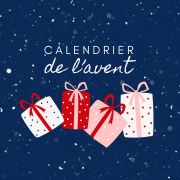
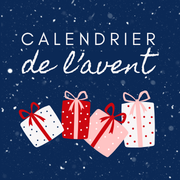
Fix iOS PWA safe-area handling and drop dead theming code
- app/+html.tsx: add viewport-fit=cover, switch status bar to
  black-translucent now that content can pad for the top inset
- app/_layout.tsx: add the missing SafeAreaProvider (insets were
  silently 0 everywhere on web without it - clipped bottom tab bar,
  missing top/bottom spacing on sub-pages); drop react-navigation's
  ThemeProvider/DarkTheme/DefaultTheme, unused (nothing reads
  useTheme(), and the web colorScheme hook always returned "light")
- hooks/useColorScheme{,.web}.ts: removed, now orphaned
- ScoresTabBar.tsx: cancel ThemedText's default paddingTop that was
  pushing the pill labels toward the bottom border

diff --git a/client/app/_layout.tsx b/client/app/_layout.tsx
@@ -1,15 +1,10 @@
 import { useEffect } from "react";
-import {
-    DarkTheme,
-    DefaultTheme,
-    ThemeProvider,
-} from "@react-navigation/native";
 import "react-native-reanimated";
 import { GestureHandlerRootView } from "react-native-gesture-handler";
+import { SafeAreaProvider } from "react-native-safe-area-context";
 import { useFonts } from "expo-font";
 import { Image } from "expo-image";
 import { Stack } from "expo-router";
-import { useColorScheme } from "@/hooks/useColorScheme";
 import { UserProvider } from "@/contexts/UserContext";
 import { ScoreProvider } from "@/contexts/ScoreContext";
 import { getCloudinaryImageUrl } from "@/services/cloudinary.service";
@@ -27,8 +22,6 @@ initSentry();
 configureNotificationHandler();
 
 function RootLayout() {
-    const colorScheme = useColorScheme();
-
     const [loaded] = useFonts({
         Poppins: require("../assets/fonts/Poppins/Poppins-Regular.ttf"),
         PoppinsBold: require("../assets/fonts/Poppins/Poppins-SemiBold.ttf"),
@@ -65,10 +58,8 @@ function RootLayout() {
 
     return (
         <GestureHandlerRootView style={{ flex: 1 }}>
-            <ErrorBoundary>
-                <ThemeProvider
-                    value={colorScheme === "dark" ? DarkTheme : DefaultTheme}
-                >
+            <SafeAreaProvider>
+                <ErrorBoundary>
                     <UserProvider>
                         <InitializationGate>
                             <VersionGate>
@@ -96,8 +87,8 @@ function RootLayout() {
                             </VersionGate>
                         </InitializationGate>
                     </UserProvider>
-                </ThemeProvider>
-            </ErrorBoundary>
+                </ErrorBoundary>
+            </SafeAreaProvider>
         </GestureHandlerRootView>
     );
 }

diff --git a/client/app/+html.tsx b/client/app/+html.tsx
@@ -13,7 +13,7 @@ export default function Root({ children }: PropsWithChildren) {
                 <meta httpEquiv="X-UA-Compatible" content="IE=edge" />
                 <meta
                     name="viewport"
-                    content="width=device-width, initial-scale=1, shrink-to-fit=no"
+                    content="width=device-width, initial-scale=1, shrink-to-fit=no, viewport-fit=cover"
                 />
 
                 {/* Link the PWA manifest file. */}
@@ -27,7 +27,7 @@ export default function Root({ children }: PropsWithChildren) {
                 <meta name="apple-mobile-web-app-capable" content="yes" />
                 <meta
                     name="apple-mobile-web-app-status-bar-style"
-                    content="default"
+                    content="black-translucent"
                 />
                 <meta name="apple-mobile-web-app-title" content="Avent" />
                 <meta name="theme-color" content="#0b2956" />

diff --git a/client/components/navigation/ScoresTabBar.tsx b/client/components/navigation/ScoresTabBar.tsx
@@ -64,6 +64,7 @@ const styles = StyleSheet.create({
         opacity: 0.8,
         borderRadius: 50,
         paddingHorizontal: 12,
+        paddingVertical: 4,
     },
     pillActive: {
         backgroundColor: Theme.green,
